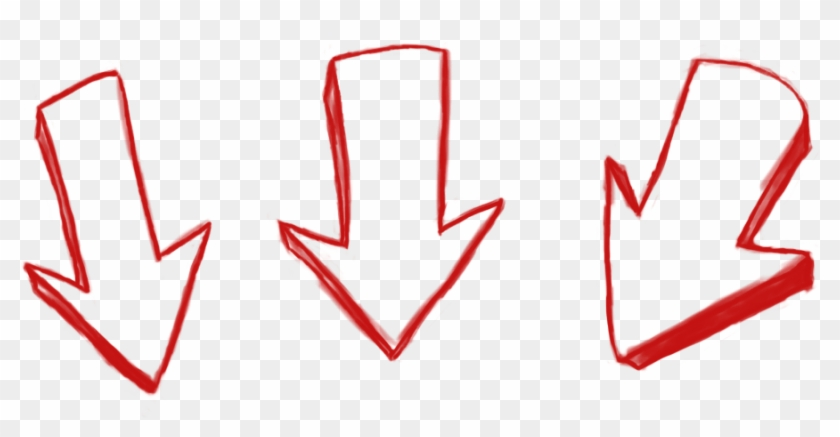
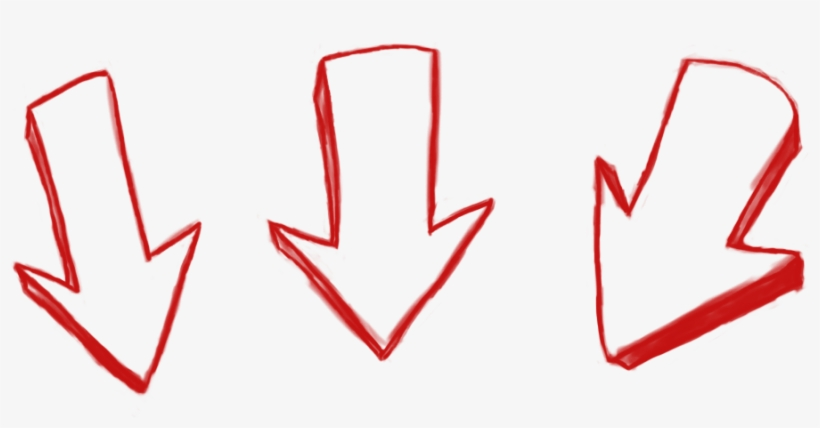
update css

Changed region(s): [[0.7012, 0.1215, 1.0, 0.8808], [0.0, 0.1519, 0.2744, 0.9416], [0.3049, 0.0911, 0.6098, 0.8505]]

diff --git a/views/error.html b/views/error.html
@@ -9,8 +9,8 @@
     </head>
     <body>
         <br><br><br><br>
-        <h1>Did you get lost?</h1>
-        <img src="/images/arrow.png" alt="arrow"/>
-        <h2 style="font-size: 45px; text-align:center;">CLICK <a href="/"><b>HERE</b></a> TO GO BACK</h2>
+        <h1 class="lost">Did you get lost?</h1>
+        <img class="arrows" src="/images/uploaded/arrow.png" alt="arrow"/>
+        <h2 class="back">CLICK <a href="/"><b>HERE</b></a> TO GO BACK</h2>
     </body>
 </html>

diff --git a/public/css/site.css b/public/css/site.css
@@ -1,3 +1,15 @@
-h1 {
+h1.lost {
     font-size: 8rem;
+    text-align: center;
+}
+
+h2.back {
+    text-align: center;
+    font-size: 3rem;
+}
+
+img.arrows {
+    display: block;
+    margin-left: auto;
+    margin-right: auto;
 }
